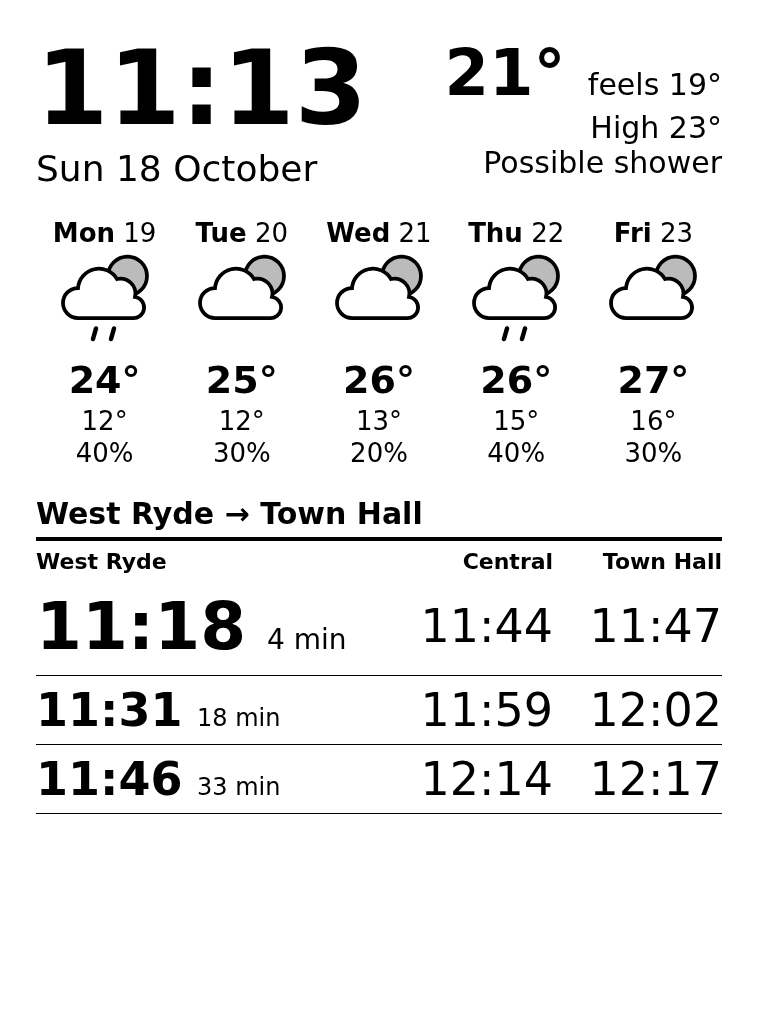
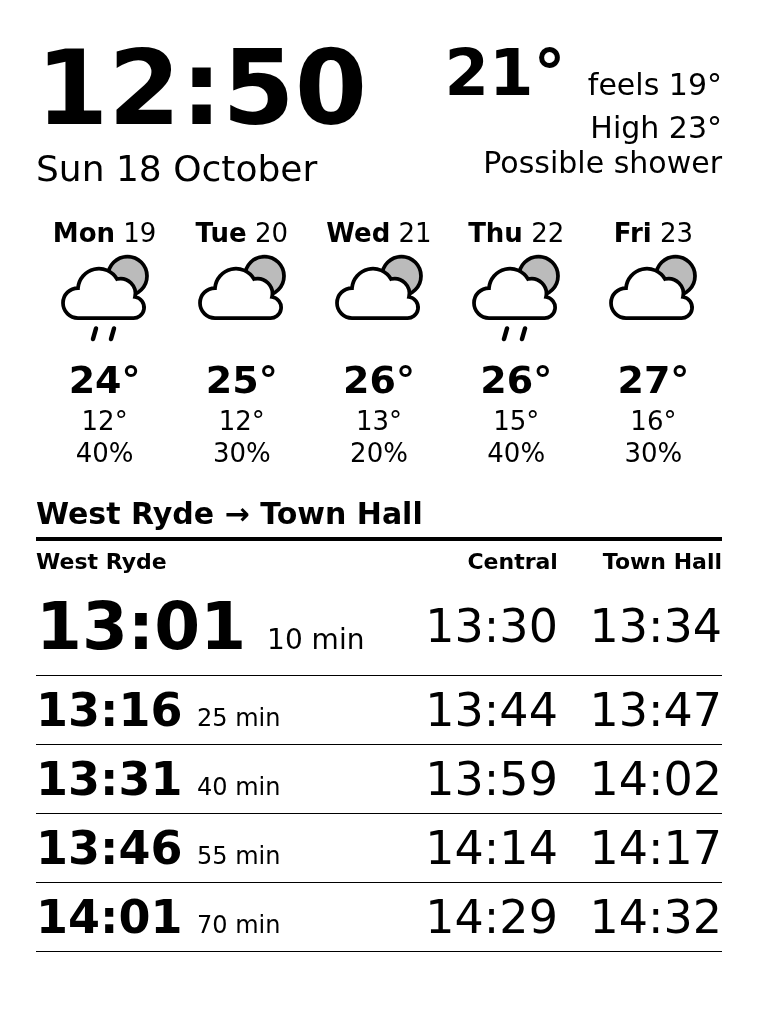
5 trains with walking time, safer exit, cleanups

diff --git a/server/app.rb b/server/app.rb
@@ -18,6 +18,7 @@ BOM_OBS_FILE, BOM_STATION = ENV.fetch("BOM_OBS_FILE"), ENV.fetch("BOM_STATION")
 # "id:Label,id:Label,...": the first stop is where you board, the last is the query destination,
 # and every stop after the first gets an arrival-time column.
 TRAIN_STOPS = ENV.fetch("TRAIN_STOPS").split(",").map { |s| s.strip.split(":", 2) }
+WALK_MIN = Integer(ENV.fetch("WALK_MIN", 3)) # minutes to walk to the first stop; trains sooner than this can't be caught
 
 # Refetched every 10 min. If a fetch fails, the last good result is shown for up to a day,
 # marked stale after 30 min so the screen says "as of HH:MM".
@@ -30,24 +31,26 @@ def weather
                  days: @weather[:days].select { |d| d[:day] > today }.first(5), stale: Time.now - @weather[:at] > 1800)
 end
 
-# BOM's anonymous FTP is its documented channel for automated downloads.
-def bom_get(file)
-  xml = Net::FTP.open("ftp.bom.gov.au", username: "anonymous", open_timeout: 5, read_timeout: 15) do |ftp|
-    ftp.getbinaryfile("/anon/gen/fwo/#{file}.xml", nil)
+# BOM's anonymous FTP is its documented channel for automated downloads. One login fetches all files.
+def bom_get(*files)
+  Net::FTP.open("ftp.bom.gov.au", username: "anonymous", open_timeout: 5, read_timeout: 15) do |ftp|
+    files.map { |f| REXML::Document.new(ftp.getbinaryfile("/anon/gen/fwo/#{f}.xml", nil)) }
   end
-  REXML::Document.new(xml)
 end
 
+def bom_val(node, type) = node.elements[".//*[@type='#{type}']"]&.text
+
 def fetch_weather
-  area = bom_get(BOM_FORECAST_FILE).elements["//area[@description='#{BOM_FORECAST_AREA}']"] or raise "no forecast for #{BOM_FORECAST_AREA}"
+  forecast, readings = bom_get(BOM_FORECAST_FILE, BOM_OBS_FILE)
+  area = forecast.elements["//area[@description='#{BOM_FORECAST_AREA}']"] or raise "no forecast for #{BOM_FORECAST_AREA}"
   days = area.get_elements("forecast-period").map do |p|
-    v = ->(type) { p.elements["*[@type='#{type}']"]&.text }
+    v = ->(type) { bom_val(p, type) }
     { day: Date.parse(p.attributes["start-time-local"]), text: v.("precis")&.chomp("."), icon: v.("forecast_icon_code")&.to_i,
       min: v.("air_temperature_minimum")&.to_i, max: v.("air_temperature_maximum")&.to_i, # today's go missing later in the day
       rain: v.("probability_of_precipitation") }
   end
-  obs = bom_get(BOM_OBS_FILE).elements["//station[@description='#{BOM_STATION}']/period"] or raise "no readings for #{BOM_STATION}"
-  reading = ->(type) { obs.elements[".//element[@type='#{type}']"].text.to_f.round }
+  obs = readings.elements["//station[@description='#{BOM_STATION}']/period"] or raise "no readings for #{BOM_STATION}"
+  reading = ->(type) { Float(bom_val(obs, type)).round } # a missing reading fails the fetch, keeping the last good one
   @weather = { now: reading.("air_temperature"), feels: reading.("apparent_temp"), days:, at: Time.now }
 rescue => e
   warn "weather: #{e.class}: #{e.message}" # keep the previous @weather
@@ -63,24 +66,27 @@ end
 def at(point, kind) = Time.parse(point["#{kind}TimeEstimated"] || point["#{kind}TimePlanned"]).localtime
 
 # Next trains from the first stop that run through to the last one, with arrival times at the other stops.
-def trains(limit)
+def trains
   journeys = tfnsw("trip", depArrMacro: "dep", type_origin: "any", name_origin: TRAIN_STOPS[0][0], type_destination: "any",
-                           name_destination: TRAIN_STOPS[-1][0], calcNumberOfTrips: 6, TfNSWTR: true)["journeys"]
+                           name_destination: TRAIN_STOPS[-1][0], calcNumberOfTrips: 8, TfNSWTR: true)["journeys"] # 10 is ~2x slower; 8 leaves spares after the walk filter
   journeys.filter_map do |j|
     leg = j["legs"][0]
     next unless j["legs"].size == 1 && leg.dig("transportation", "product", "class") == 1 # one train, no change
     arrive = ->(id) { s = leg["stopSequence"].to_a.find { |s| s.dig("parent", "id") == id }; s && at(s, "arrival") }
     { dep: at(leg["origin"], "departure"), arrivals: TRAIN_STOPS.drop(1).map { |id, _| arrive.(id) } }
-  end.uniq { |t| t[:dep] }.sort_by { |t| t[:dep] }.first(limit)
+  end.uniq { |t| t[:dep] }.sort_by { |t| t[:dep] }
 rescue => e
   warn "trains: #{e.class}: #{e.message}"
   nil
 end
 
-def html = TEMPLATE.result_with_hash(now: Time.now, weather: weather, trains: trains(3))
+def html(now = Time.now)
+  reachable = trains&.reject { |t| t[:dep] - now < WALK_MIN * 60 }
+  TEMPLATE.result_with_hash(now:, weather:, trains: reachable&.first(5))
+end
 
 def render_png
-  browser = Ferrum::Browser.new(window_size: [W, H], process_timeout: 30,
+  browser = Ferrum::Browser.new(window_size: [W, H], process_timeout: 30, timeout: 30, # page load includes data fetches
                                 browser_options: { "no-sandbox" => nil, "disable-dev-shm-usage" => nil })
   browser.resize(width: W, height: H) # window_size includes browser chrome; this sets the viewport
   browser.goto("http://127.0.0.1:#{PORT}/")
@@ -97,8 +103,10 @@ ensure
   browser&.quit
 end
 
-server = WEBrick::HTTPServer.new(Port: PORT)
-server.mount_proc("/") { |_, res| res.content_type = "text/html; charset=utf-8"; res.body = html }
-server.mount_proc("/dash.png") { |_, res| res.content_type = "image/png"; res.body = render_png }
-%w[INT TERM].each { |s| trap(s) { server.shutdown } }
-server.start
+if $0 == __FILE__ # the check_*.rb scripts require this file without starting the server
+  server = WEBrick::HTTPServer.new(Port: PORT)
+  server.mount_proc("/") { |_, res| res.content_type = "text/html; charset=utf-8"; res.body = html }
+  server.mount_proc("/dash.png") { |_, res| res.content_type = "image/png"; res.body = render_png }
+  %w[INT TERM].each { |s| trap(s) { server.shutdown } }
+  server.start
+end

diff --git a/server/check_trains.rb b/server/check_trains.rb
@@ -1,0 +1,8 @@
+# Self-check for the walking-time filter. Run: docker exec -i server-dash-1 ruby < check_trains.rb
+require "/app/app.rb"
+now = Time.now
+def trains = [1, 2, 3, 5, 10, 20, 30, 40, 50].map { |m| { dep: Time.now + m * 60 + 30, arrivals: [nil] * (TRAIN_STOPS.size - 1) } }
+shown = html(now).scan(%r{<b>(\d\d:\d\d)</b>}).flatten
+want = [3, 5, 10, 20, 30].map { |m| (now + m * 60 + 30).strftime("%H:%M") }
+raise "got #{shown}, want #{want}" unless shown == want
+puts "OK #{shown}"

diff --git a/server/check_weather.rb b/server/check_weather.rb
@@ -1,5 +1,5 @@
 # Self-check for the stale-weather fallback. Run: docker exec -i server-dash-1 ruby < check_weather.rb
-eval(File.read("/app/app.rb").split("server = WEBrick").first, binding, "/app/app.rb")
+require "/app/app.rb"
 def fetch_weather = nil # simulate BOM being down
 
 y, t = Date.today - 1, Date.today

diff --git a/README.md b/README.md
@@ -6,7 +6,7 @@ image, and the Kindle downloads and shows it at the start of every minute.
 The screen shows:
 - time and date;
 - current weather and a 5-day forecast from the Bureau of Meteorology (BOM);
-- the next 3 trains on a Sydney Trains route, with arrival times at up to two later stops (Transport for NSW).
+- the next 5 trains you can still walk to on a Sydney Trains route, with arrival times at up to two later stops (Transport for NSW).
 
 <img src="docs/screenshot.png" width="380" alt="Dashboard: clock, current weather, 5-day forecast with icons, and the next three trains from West Ryde with Central and Town Hall arrival times">
 
@@ -20,7 +20,7 @@ server (Docker)                                 Kindle
 │ server/, port 8090               │            │ /mnt/us/dash/run.sh          │
 │  GET /         → HTML dashboard  │  ◄── wget  │  each new minute, or on tap: │
 │  GET /dash.png → headless Chrome │    PNG ──► │  fetch dash.png, draw (eips) │
-│    screenshot, 8-bit greyscale   │            │  tap the clock → exit        │
+│    screenshot, 8-bit greyscale   │            │  clock, then EXIT → exit     │
 │  data: TfNSW trip API,           │            └──────────────────────────────┘
 │        BOM forecast + station    │
 └──────────────────────────────────┘
@@ -36,6 +36,7 @@ All drawing happens on the server. The Kindle is too slow to render anything its
 | `server/dash.erb` | Dashboard layout (HTML/CSS). Edit this to change what's shown |
 | `server/compose.yml`, `Dockerfile` | Docker setup. Host port **8090**; change it in `compose.yml` |
 | `server/check_weather.rb` | Self-check for the weather cache/stale logic |
+| `server/check_trains.rb` | Self-check for the walking-time filter |
 | `.env.example` | Settings template: TfNSW key, train stops, BOM locations. Copy to `.env` (git-ignored) |
 | `device/dash/run.sh` | Kindle loop → `/mnt/us/dash/run.sh` |
 | `device/dash/config.example` | Server address for the Kindle. Copy to `/mnt/us/dash/config` |
@@ -49,7 +50,8 @@ cp .env.example .env        # then fill in your key and locations
 cd server
 docker compose up -d --build                     # build and (re)start
 docker compose logs -f                           # errors show as "weather: …", "trains: …"
-docker exec -i server-dash-1 ruby < check_weather.rb   # self-check
+docker exec -i server-dash-1 ruby < check_weather.rb   # self-checks
+docker exec -i server-dash-1 ruby < check_trains.rb
 ```
 
 Preview in a browser at `http://localhost:8090/` (HTML) or `http://localhost:8090/dash.png` (the image the Kindle sees).
@@ -61,6 +63,7 @@ Preview in a browser at `http://localhost:8090/` (HTML) or `http://localhost:809
   - You board at the first stop. Only trains that run through to the last stop with no change are shown.
   - Each later stop gets an arrival-time column. Two or three stops fit on screen.
   - Stop IDs come from the Trip Planner API's `stop_finder`.
+- **`WALK_MIN`:** minutes to walk to the first stop (default 3). Trains leaving sooner are hidden.
 - **`BOM_FORECAST_FILE` / `BOM_FORECAST_AREA`:** the state's town-forecast file and a town in it,
   e.g. `IDN11060` (NSW) and `Sydney`.
 - **`BOM_OBS_FILE` / `BOM_STATION`:** the state's latest-readings file and a weather station in it,
@@ -108,7 +111,7 @@ screen size (`W, H` in `app.rb`), touchscreen device and tap coordinates (`run.s
 |---|---|
 | Start the dashboard | Tap **Dashboard** in the library, or let `emergency.sh` start it ~30 s after boot |
 | Refresh now | Tap anywhere ("Refreshing..." appears) |
-| Go back to the normal Kindle | Tap the **clock** (top-left). The Kindle UI takes ~20–30 s to start; this is not a reboot |
+| Go back to the normal Kindle | Tap the **clock** (top-left), then the **EXIT** button that appears mid-screen within 5 s. Any other tap, or waiting, returns to the dashboard. The Kindle UI takes ~20–30 s to start; this is not a reboot |
 | Turn off auto-start | Delete `emergency.sh` from the Kindle's main folder (over USB) |
 | Recover if it's stuck | Hold power ~20 s to reboot |
 
@@ -137,7 +140,7 @@ ssh kindle 'for d in /proc/[0-9]*; do case "$(tr "\0" " " < $d/cmdline 2>/dev/nu
             (setsid /mnt/us/dash/run.sh >/tmp/dash.log 2>&1 &)'
 ```
 
-Log: `/tmp/dash.log` on the Kindle. It records each tap's x/y and any failed downloads.
+Log: `/tmp/dash.log` on the Kindle. It records each tap's x/y, each EXIT confirmation, and any failed downloads.
 
 ### How auto-start works
 
@@ -151,7 +154,9 @@ No Kindle system files are changed.
 - busybox `kill -0 ""` returns success. Always check that a PID is non-empty first.
 - busybox `timeout` syntax is `timeout -t SECS`.
 - busybox `ps` truncates command names. Use `/proc/*/cmdline`.
-- Touchscreen: `/dev/input/event1`. Its coordinates are screen pixels.
+- Touchscreen: `/dev/input/event1`. Its coordinates are screen pixels. A finger lifting sends its own frame
+  (tracking ID −1); `run.sh` ignores those so a lift doesn't count as a second tap.
+- `fbink -c -h` clears the screen to **black**. Clear with a separate `fbink -c` first.
 - The Kindle's clock shows the wrong timezone label, but UTC is correct. The time on screen comes from the server anyway.
 - USB through some hubs drops every few seconds. Plug the Kindle straight into the computer.
 
